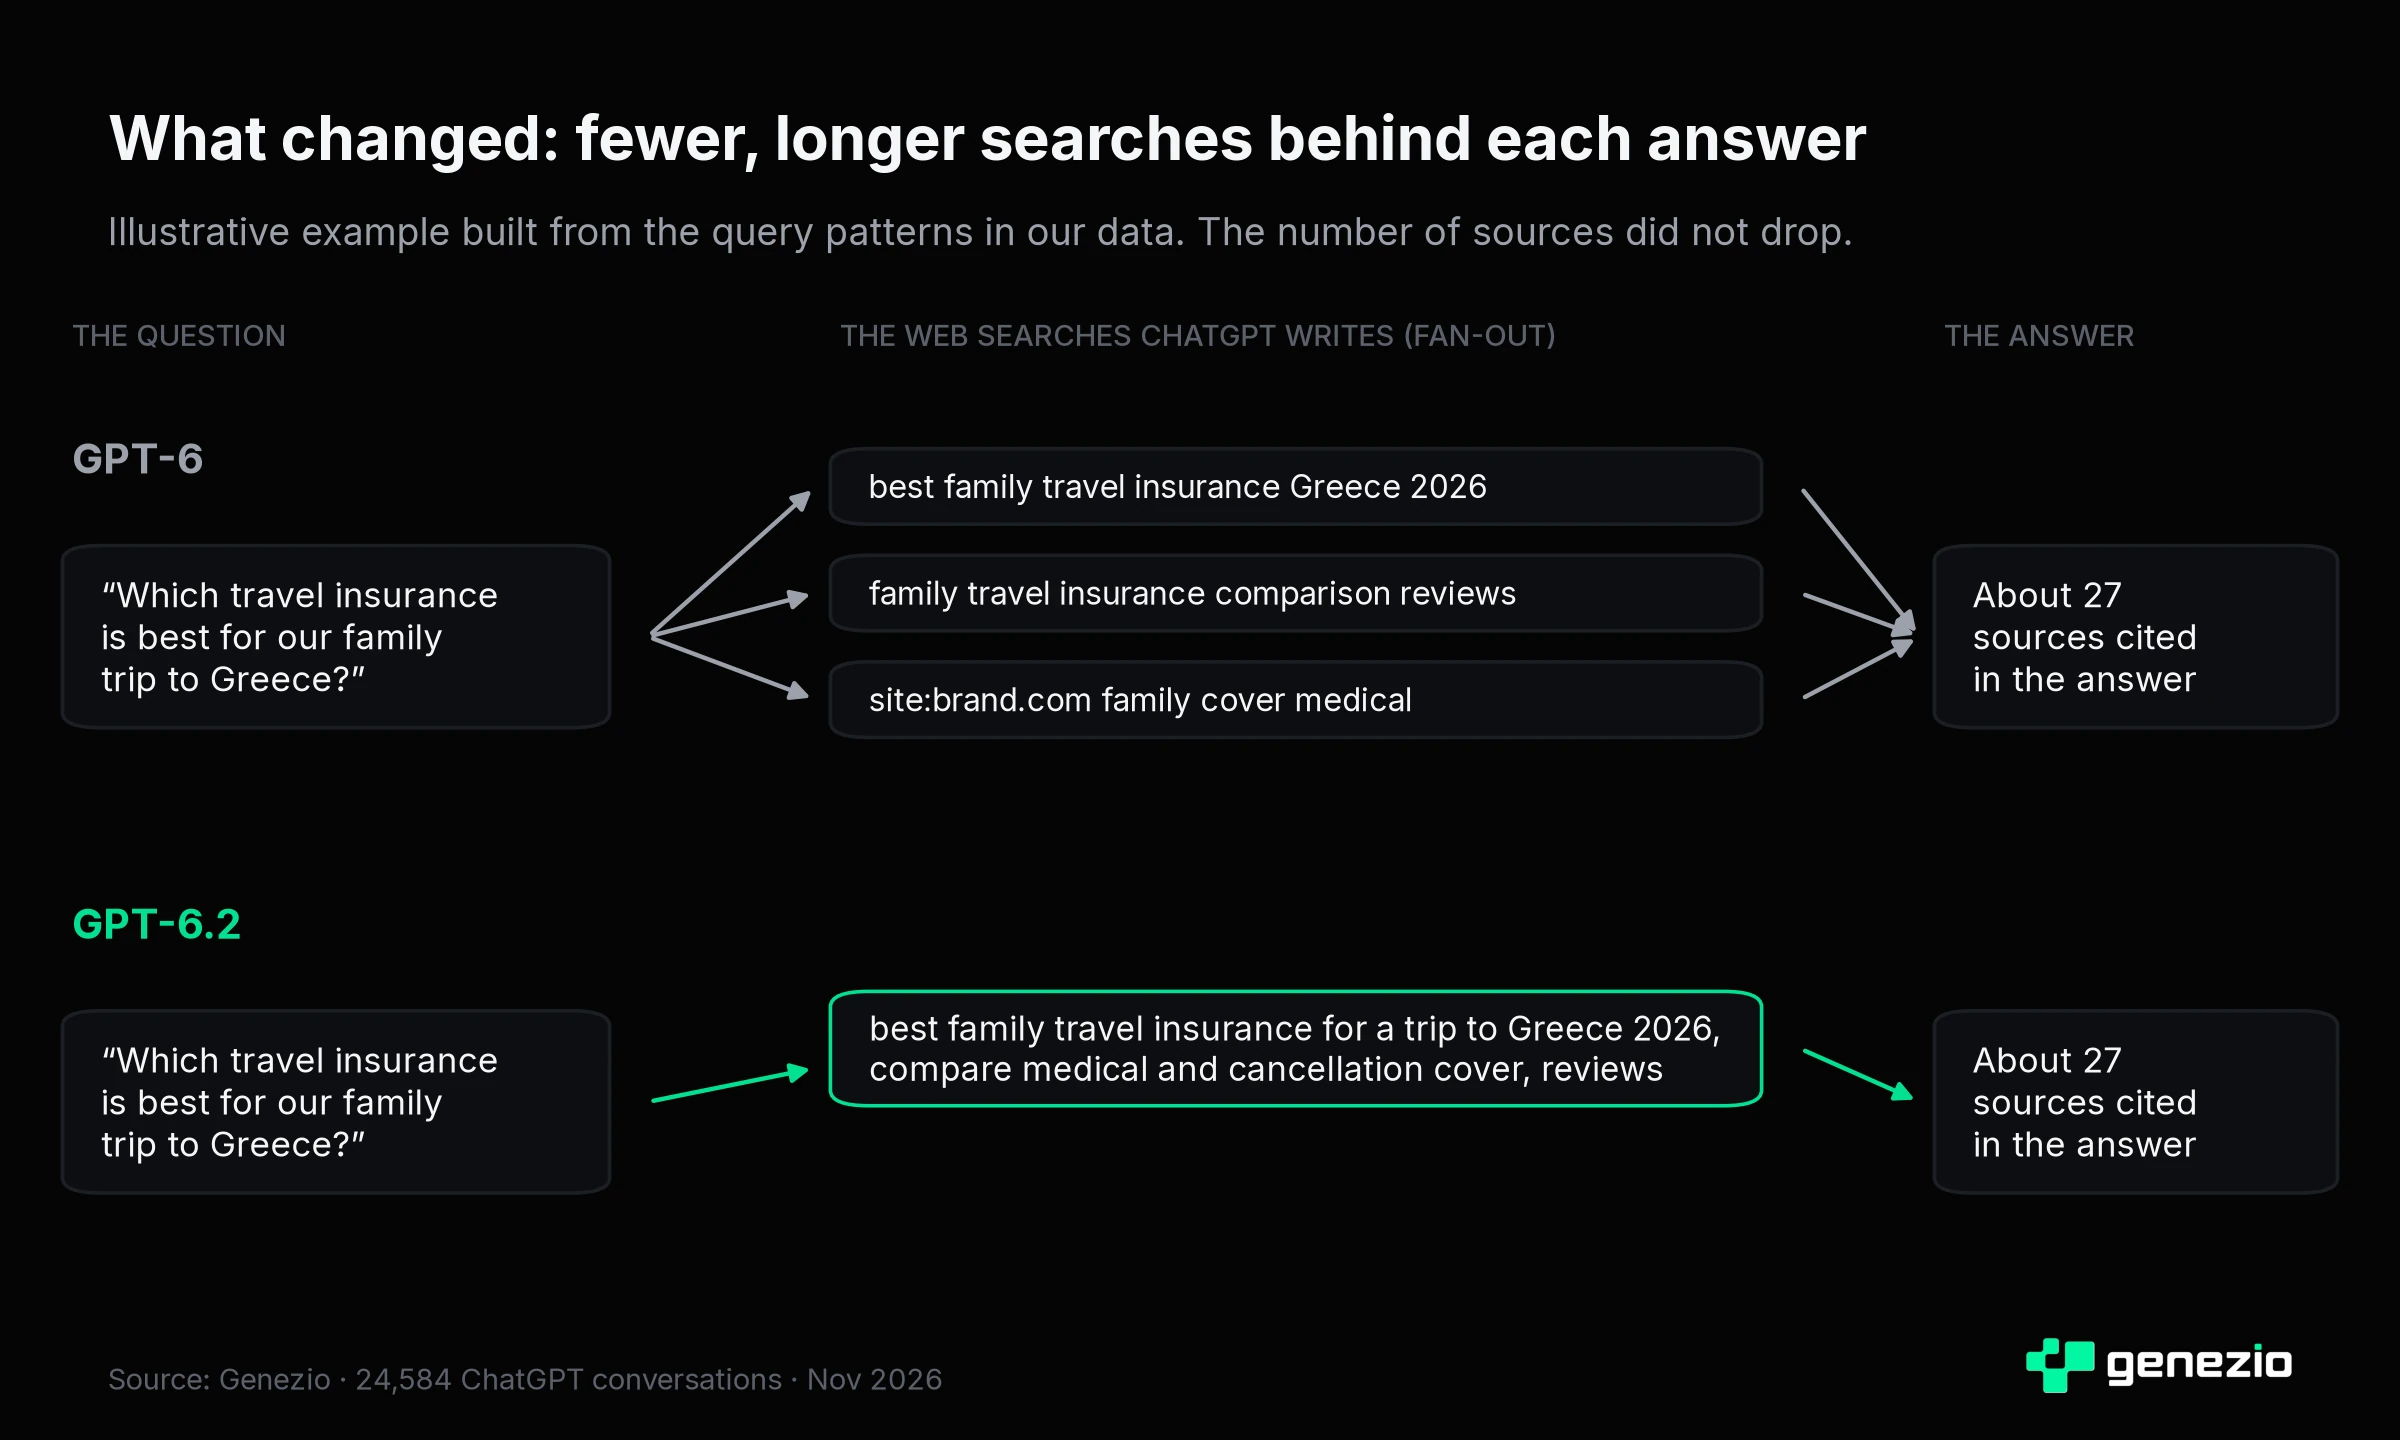
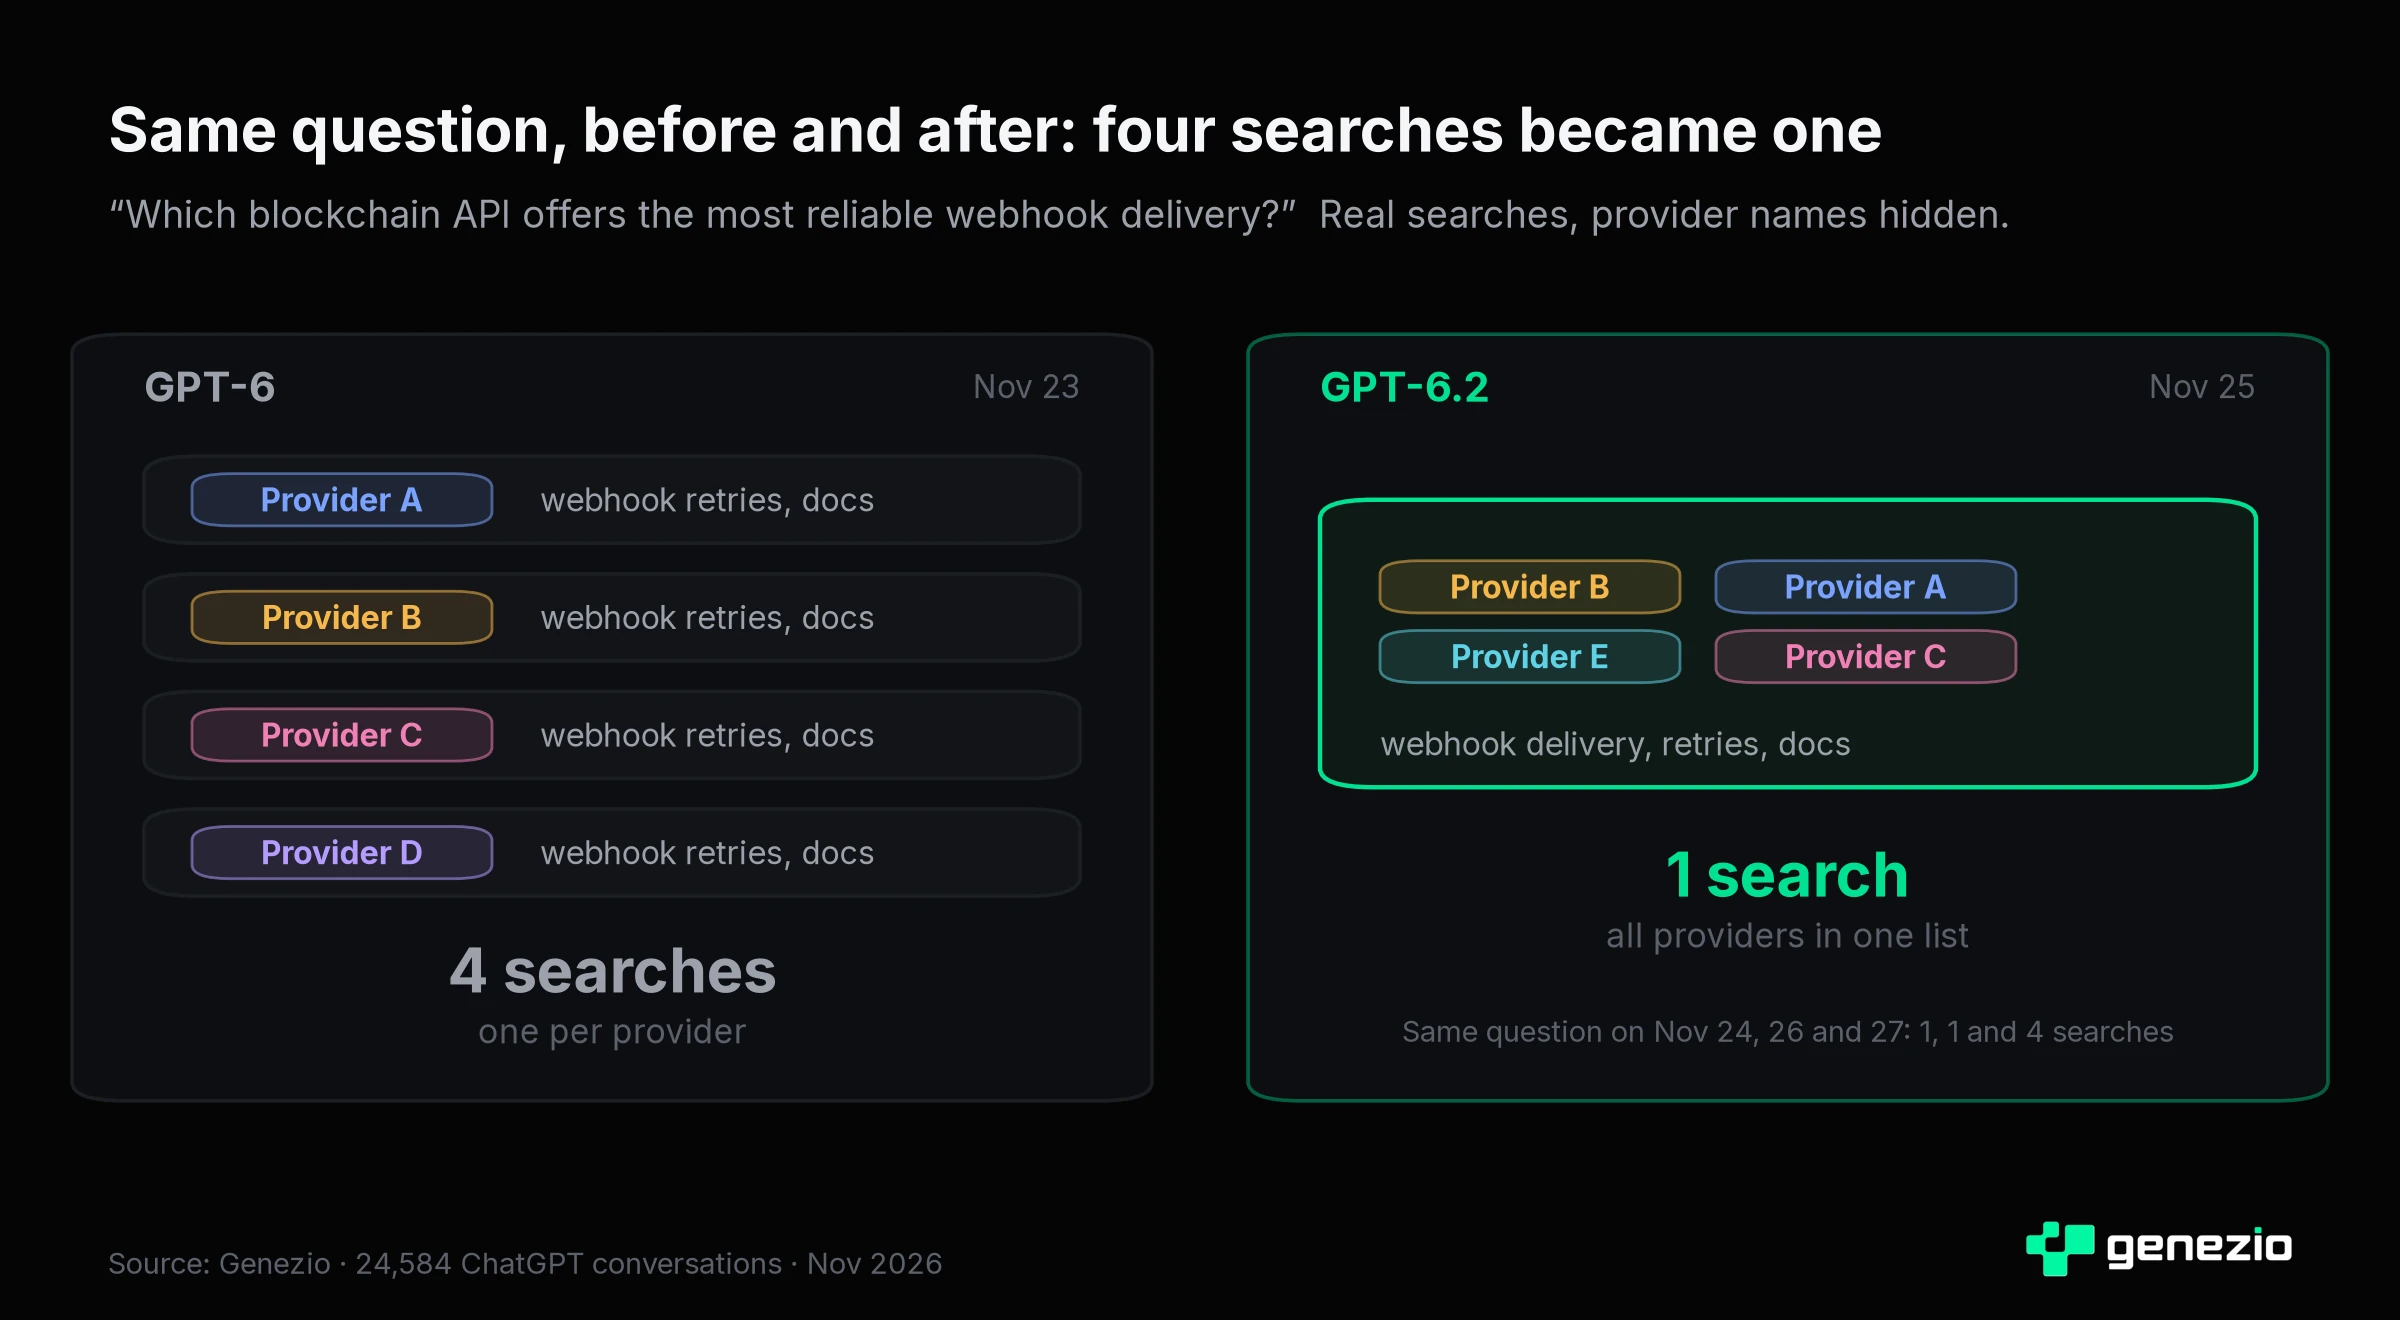
fix(research): a real same-question example in the fan-out chart

diff --git a/new-landing/src/posts/gpt-6-2-chatgpt-searches-less.md b/new-landing/src/posts/gpt-6-2-chatgpt-searches-less.md
@@ -48,9 +48,9 @@ When you ask ChatGPT a question that needs fresh information, it does not send y
 
 The fan-out decides which pages ChatGPT can read. A page that no search finds cannot be cited, however good it is. For GEO (Generative Engine Optimization), the fan-out is the front door.
 
-![Illustration: GPT-6 runs three searches for a question, GPT-6.2 runs one longer search, and both answers cite about 27 sources](/images/gpt-6-2-fanout-explained.webp)
+![The same question before and after: GPT-6 ran four searches, one per provider, and GPT-6.2 ran one search that named all of them](/images/gpt-6-2-fanout-explained.webp)
 
-With GPT-6.2, that front door got narrower.
+With GPT-6.2, that front door got narrower. The example above is real. A persona asked ChatGPT the same question every day. On GPT-6, ChatGPT searched each provider separately, so each provider got its own list of results. On GPT-6.2, one search named all of them, so they competed in one list. GPT-6.2 does not merge the searches every time: on the following days, the same question got 1, 1 and 4 searches. But it merges them far more often, as the numbers below show.
 
 ## What happened on November 24
 
